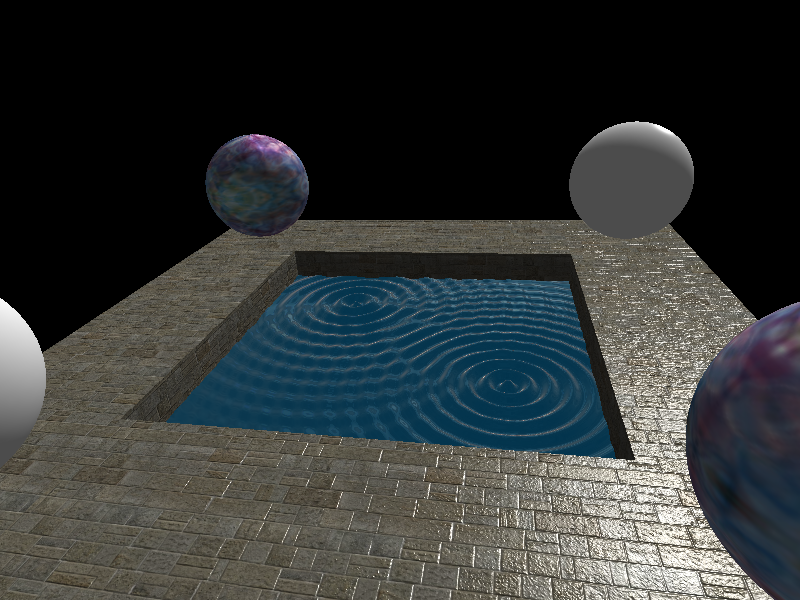
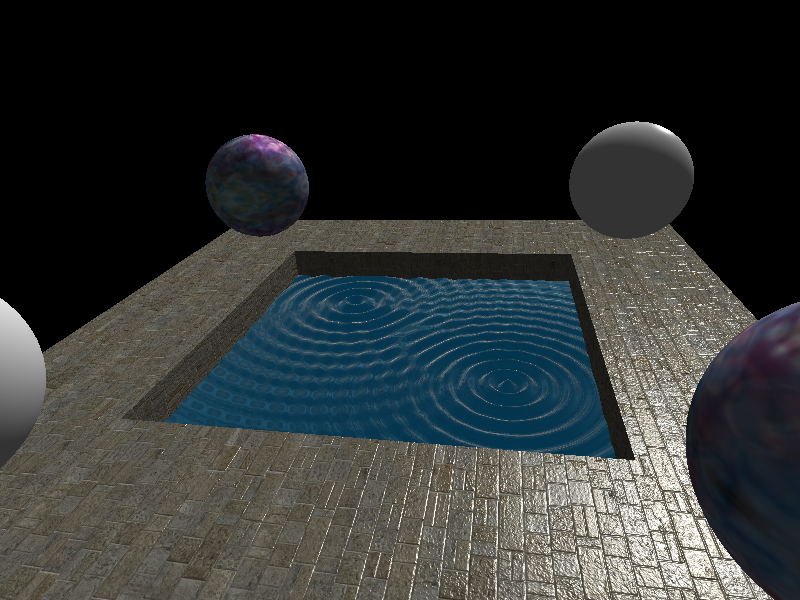
Pulled in updated reference screen shot and staff loader code. Apparently, Bump mapping does not work correctly for the staff loader code.

Changed region(s): [[0.0, 0.18, 0.9688, 1.0]]

diff --git a/project.cpp b/project.cpp
@@ -23,6 +23,11 @@ using namespace std;
 // current absolute simulation time for the current scene
 static real_t sim_time;
 
+static int num_gl_lights=8;
+
+void set_light_positions(const Scene::LightList & lights);
+void init_light_properties(const Scene::LightList & lights);
+
 void draw_geom(Geometry *geom)
 {
 	assert(geom);
@@ -52,7 +57,7 @@ void prj_initialize(Scene* scene, bool is_gl_context)
     sim_time = scene->start_time;
 
     if (is_gl_context) {
-		GLfloat lmodel_ambient[] = { 0.3, 0.3, 0.3, 1 };
+		GLfloat lmodel_ambient[] = { 0.2, 0.2, 0.2, 1 };
 		glClearColor(0, 0, 0, 1);
 		glShadeModel(GL_SMOOTH);
 		glLightModelfv(GL_LIGHT_MODEL_AMBIENT, lmodel_ambient);
@@ -61,12 +66,15 @@ void prj_initialize(Scene* scene, bool is_gl_context)
 		glEnable(GL_NORMALIZE);
 		glEnable(GL_TEXTURE_2D);
 		glTexEnvi(GL_TEXTURE_ENV, GL_TEXTURE_ENV_MODE, GL_MODULATE);
+		glGetIntegerv(GL_MAX_LIGHTS, &num_gl_lights);
     }
     
     // Initialize scene objects
 	for_each(scene->materials.begin(),
 	         scene->materials.end(),
 	         &init_mat);
+	         
+	init_light_properties(scene->lights);	         
 }
 
 /**
@@ -116,17 +124,23 @@ static void set_camera(const Camera &camera) {
 			  upx, upy, upz);
 }
 
-void set_lights(const Scene::LightList & lights)
+void set_light_positions(const Scene::LightList & lights)
 {
-	const GLfloat catt = 0;
+	for(int i=0; i<num_gl_lights && i < (int)lights.size(); ++i)
+	{
+		const Light & light = lights[i];
+		const GLfloat position[] = { light.position.x, light.position.y, light.position.z, 1 };
+		glLightfv(GL_LIGHT0 + i, GL_POSITION, position);
+	}
+}
+
+void init_light_properties(const Scene::LightList & lights)
+{
+	const GLfloat catt = 1;
 	const GLfloat latt = 0;
-	const GLfloat qatt = 0.01;
+	const GLfloat qatt = 0;
 	const GLfloat black[] = { 0, 0, 0, 1 };
 	const GLfloat white[] = { 1, 1, 1, 1 };
-
-	int num_gl_lights=8;
-
-	glGetIntegerv(GL_MAX_LIGHTS, &num_gl_lights);
 
 	for(int i=0; i<num_gl_lights; ++i) {
 		glDisable(GL_LIGHT0 + i);
@@ -137,21 +151,19 @@ void set_lights(const Scene::LightList & lights)
 		const Light & light = lights[i];
 
 		const GLfloat color[] = { light.color.x, light.color.y, light.color.z, 1 };
-		const GLfloat position[] = { light.position.x, light.position.y, light.position.z, 1 };
 
 		glLightfv(GL_LIGHT0 + i, GL_AMBIENT, black);
 		glLightfv(GL_LIGHT0 + i, GL_DIFFUSE, color);
 		glLightfv(GL_LIGHT0 + i, GL_SPECULAR, white);
 
-		glLightf(GL_LIGHT0 + i, GL_CONSTANT_ATTENUATION,  catt);
+		glLightf(GL_LIGHT0 + i, GL_CONSTANT_ATTENUATION,  catt * light.intensity);
 		glLightf(GL_LIGHT0 + i, GL_LINEAR_ATTENUATION,    latt);
-		glLightf(GL_LIGHT0 + i, GL_QUADRATIC_ATTENUATION, qatt * light.intensity);
-
-		glLightfv(GL_LIGHT0 + i, GL_POSITION, position);
+		glLightf(GL_LIGHT0 + i, GL_QUADRATIC_ATTENUATION, qatt);
 
 		glEnable(GL_LIGHT0 + i);
 	}
 }
+
 /**
  * Render the current scene using opengl to the current frame buffer.
  * @param scene The scene to render.
@@ -162,10 +174,10 @@ void prj_render(Scene* scene)
 	assert(scene);
 
 	set_camera(scene->camera);
-	set_lights(scene->lights); // light pos are fixed relative to the scene
+	set_light_positions(scene->lights); // light pos are fixed relative to the scene
 
 	glClear(GL_COLOR_BUFFER_BIT | GL_DEPTH_BUFFER_BIT);
-
+	
 	for_each(scene->objects.begin(),
 	         scene->objects.end(),
 	         &draw_geom);

diff --git a/staffldr.cpp b/staffldr.cpp
@@ -304,8 +304,7 @@ static void ldr_load_scene01(Scene* scene)
                    Quat::Identity, Vec3::Ones, rad, mat));
 
     Light light;
-//	light.position = Vec3(-4, 8.5, 8) * 30;
-	light.position = Vec3(-4, 5.5, -8); // Andrew Fox (20090224)
+    light.position = Vec3(-4, 8.5, 8) * 30;
     light.color = Vec3(.7,.7,.7);
     scene->lights.push_back(light);
 }
